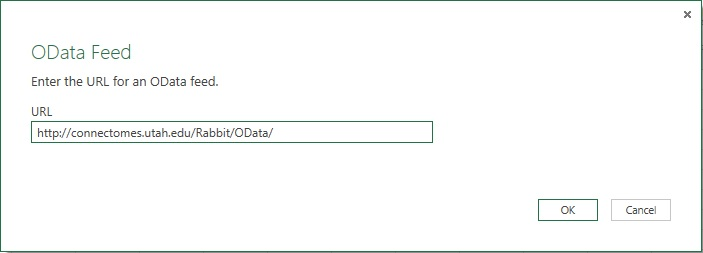
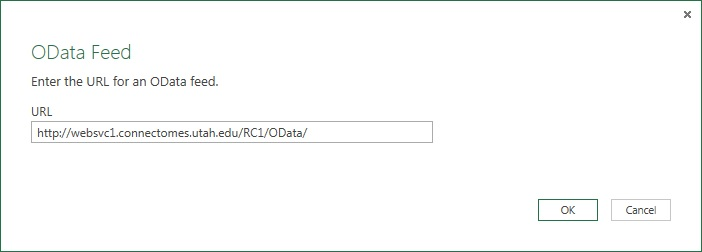
Added missing files for OData documentation

diff --git a/Documentation/source/export/odata.rst b/Documentation/source/export/odata.rst
@@ -1,7 +1,7 @@
 
-#############
-OData Service
-#############
+#################
+OData Web Service
+#################
 
 `OData`_ is an open consistent method for querying data over the web.  Viking volumes suppport a read-only OData 4.0 interface under the http://<Volume>/OData/ path.  
 
@@ -10,8 +10,9 @@ For example, the RC1 OData service is available here:
     
 The power of OData is allowing external clients to access annotations over the web.  OData can export either `JSON`_ or `ATOM`_ formats.  Below are examples of using OData.
 
+#####
 Excel
------
+#####
 
 To use OData from Excel begin by installing the free `Power Query`_ plugin from Microsoft.  Import OData by using the Power Query tab this adds to Excel:
 
@@ -23,8 +24,9 @@ Enter the OData URL into the prompt provided by Excel:
 
 This provides access to the raw annotation data from the database.  
 
+######
 Python
-------
+######
 
 It is also easy to access data from Python scripts.  I have begun a `connectome analysis package`_ which uses the OData service from Python to run some common queries and build datastructures.
 I plan to polish the connectome analysis package when time permits and complete the `documentation`_.  Feel free to contact the Marc Lab if you need assistance sooner.
@@ -39,7 +41,7 @@ The connectome analysis package also contains unit tests and examples which are 
 
    Exporting SWC files for use in NEURON using the large connectomics analysis package.
    https://github.com/jamesra/py-connectome-analysis/blob/master/examples/CreateSWC.py
- 
+
 
 .. _ATOM: http://www.atomenabled.org/
 .. _connectome analysis package: https://github.com/jamesra/py-connectome-analysis

diff --git a/Documentation/source/export/files.rst b/Documentation/source/export/files.rst
@@ -1,17 +1,17 @@
 
-###################
-Export File Formats
-###################
+#####################
+Network Visualization
+#####################
 
 The Viking web services can export files for use in external tools.  While a nicer interface is planned, currently the export is performed with URL's.
 
 Prerequisites
--------------
+=============
 
-For graph visualization we recommend using `Tulip`_ and the TLP file format.
+For graph visualization we recommend using `Tulip`_ and the TLP file format.  We also provide .dot files for use with `Graphviz`_.
 
 Export directly from a URL
---------------------------
+==========================
 
 Exports are available under a volume URL's /export/ subpath.  An Export URL has the following components
 
@@ -95,8 +95,9 @@ Morphology
       
       .. sourcecode:: http
       
-         http://websvc1.connectomes.utah.edu/RC1/morphology/tlp?id=180,476
+         http://websvc1.connectomes.utah.edu/RC1/export/morphology/tlp?id=180,476
          
       .. figure:: Morphology_Export1.png
   
 .. _Tulip: http://tulip.labri.fr/
+.. _Graphviz: http://www.graphviz.org/

diff --git a/Documentation/source/index.rst b/Documentation/source/index.rst
@@ -1,8 +1,8 @@
 .. Viking Documentation master file.
 
 .. image::  Banner.jpg 
+   :width: 768
    :align: center
-   :scale: 66%
 
 #################################
 Welcome to Viking's Documentation
@@ -43,6 +43,10 @@ Account creation
 Accounts are only required to write to the database.  Read-only access via Viking may be done anonymously.
 
 Create accounts and do some basic visualization on the `original visualization site`_
+
+.. image::  Footer_v2.jpg  
+   :width: 768
+   :align: center
    
 Indices and tables
 ==================
